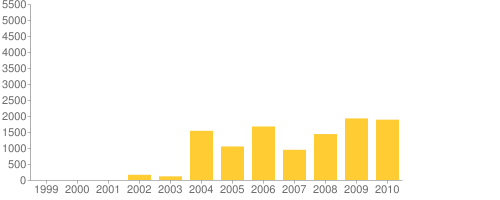
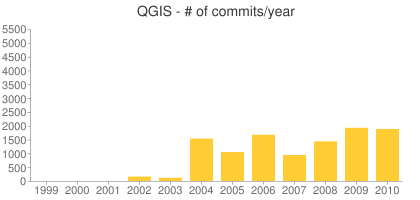
Added title to commits/year graph and reduce width

Changed region(s): [[0.0, 0.0, 0.9595, 0.99], [0.3095, 0.03, 0.7119, 0.09]]

diff --git a/commits_by_year.py b/commits_by_year.py
@@ -6,10 +6,12 @@ from pygooglechart import GroupedVerticalBarChart, Axis
 
 datafile = sys.argv[1]
 commitsfile = open(datafile, 'r')
+name = os.path.basename(datafile)
+
 data_array = []
 legend_array = []
 
-chart = GroupedVerticalBarChart(500, 200,
+chart = GroupedVerticalBarChart(420, 200,
                                 y_range=(0, 5500))
 
 #chart.set_bar_width(25)
@@ -27,8 +29,9 @@ chart.add_data(data_array)
 chart.set_axis_labels('x', legend_array)
 chart.set_axis_labels('y', range(0,6000,500))
 
+chart.set_title(name.split('.')[0].upper()+" - # of commits/year")
+
 print chart.get_url()
 
-name = os.path.basename(datafile)
 chart.download('images/commits_by_year_'+str(name.split('.')[0])+'.png')
 
